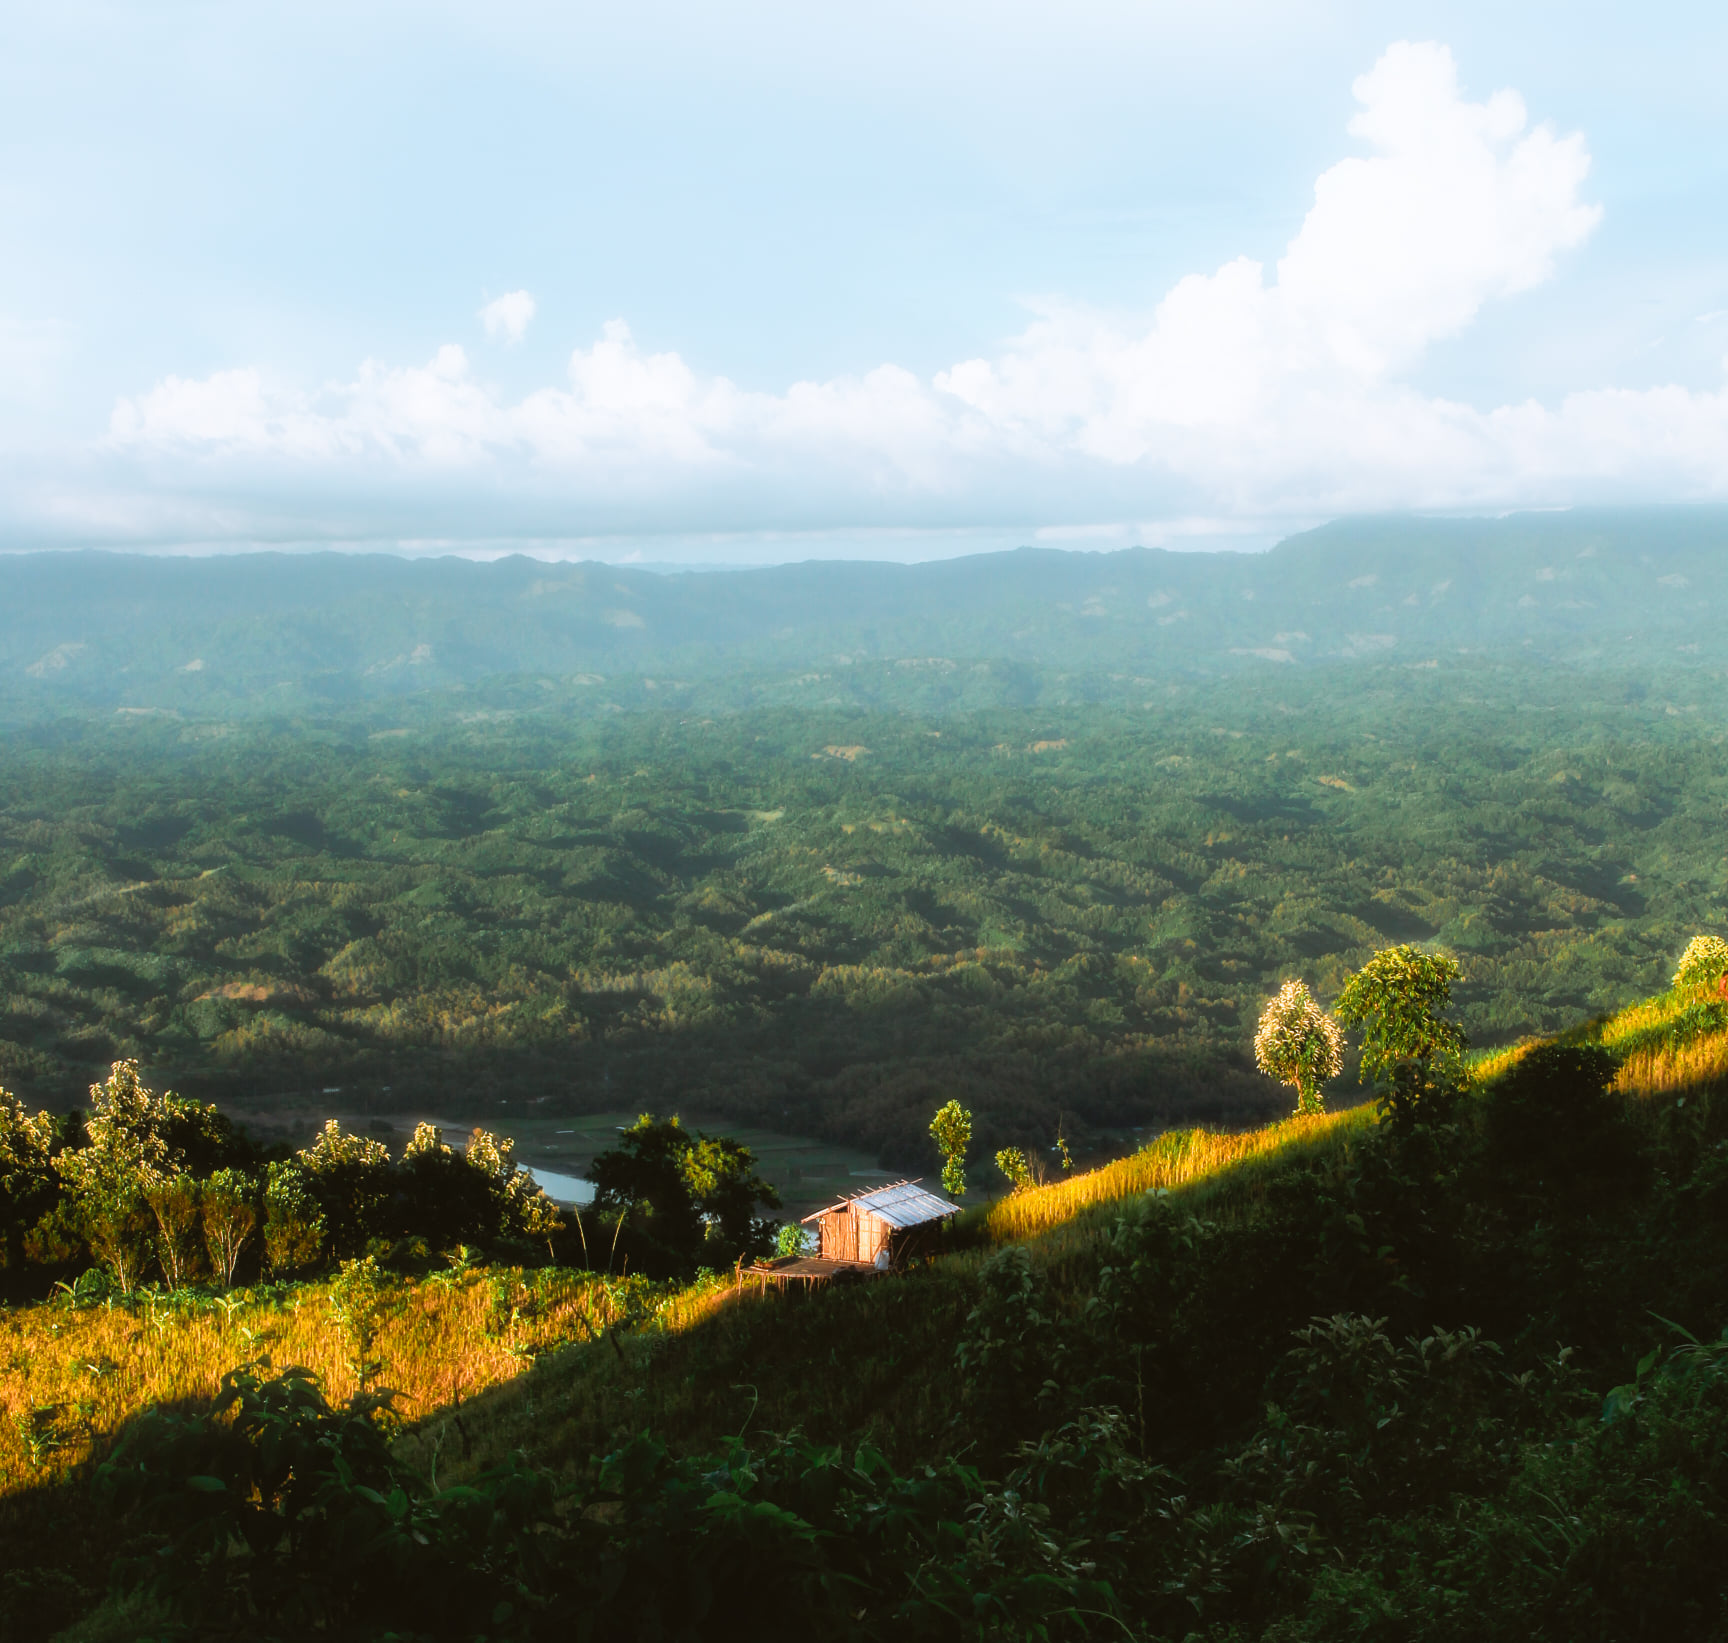
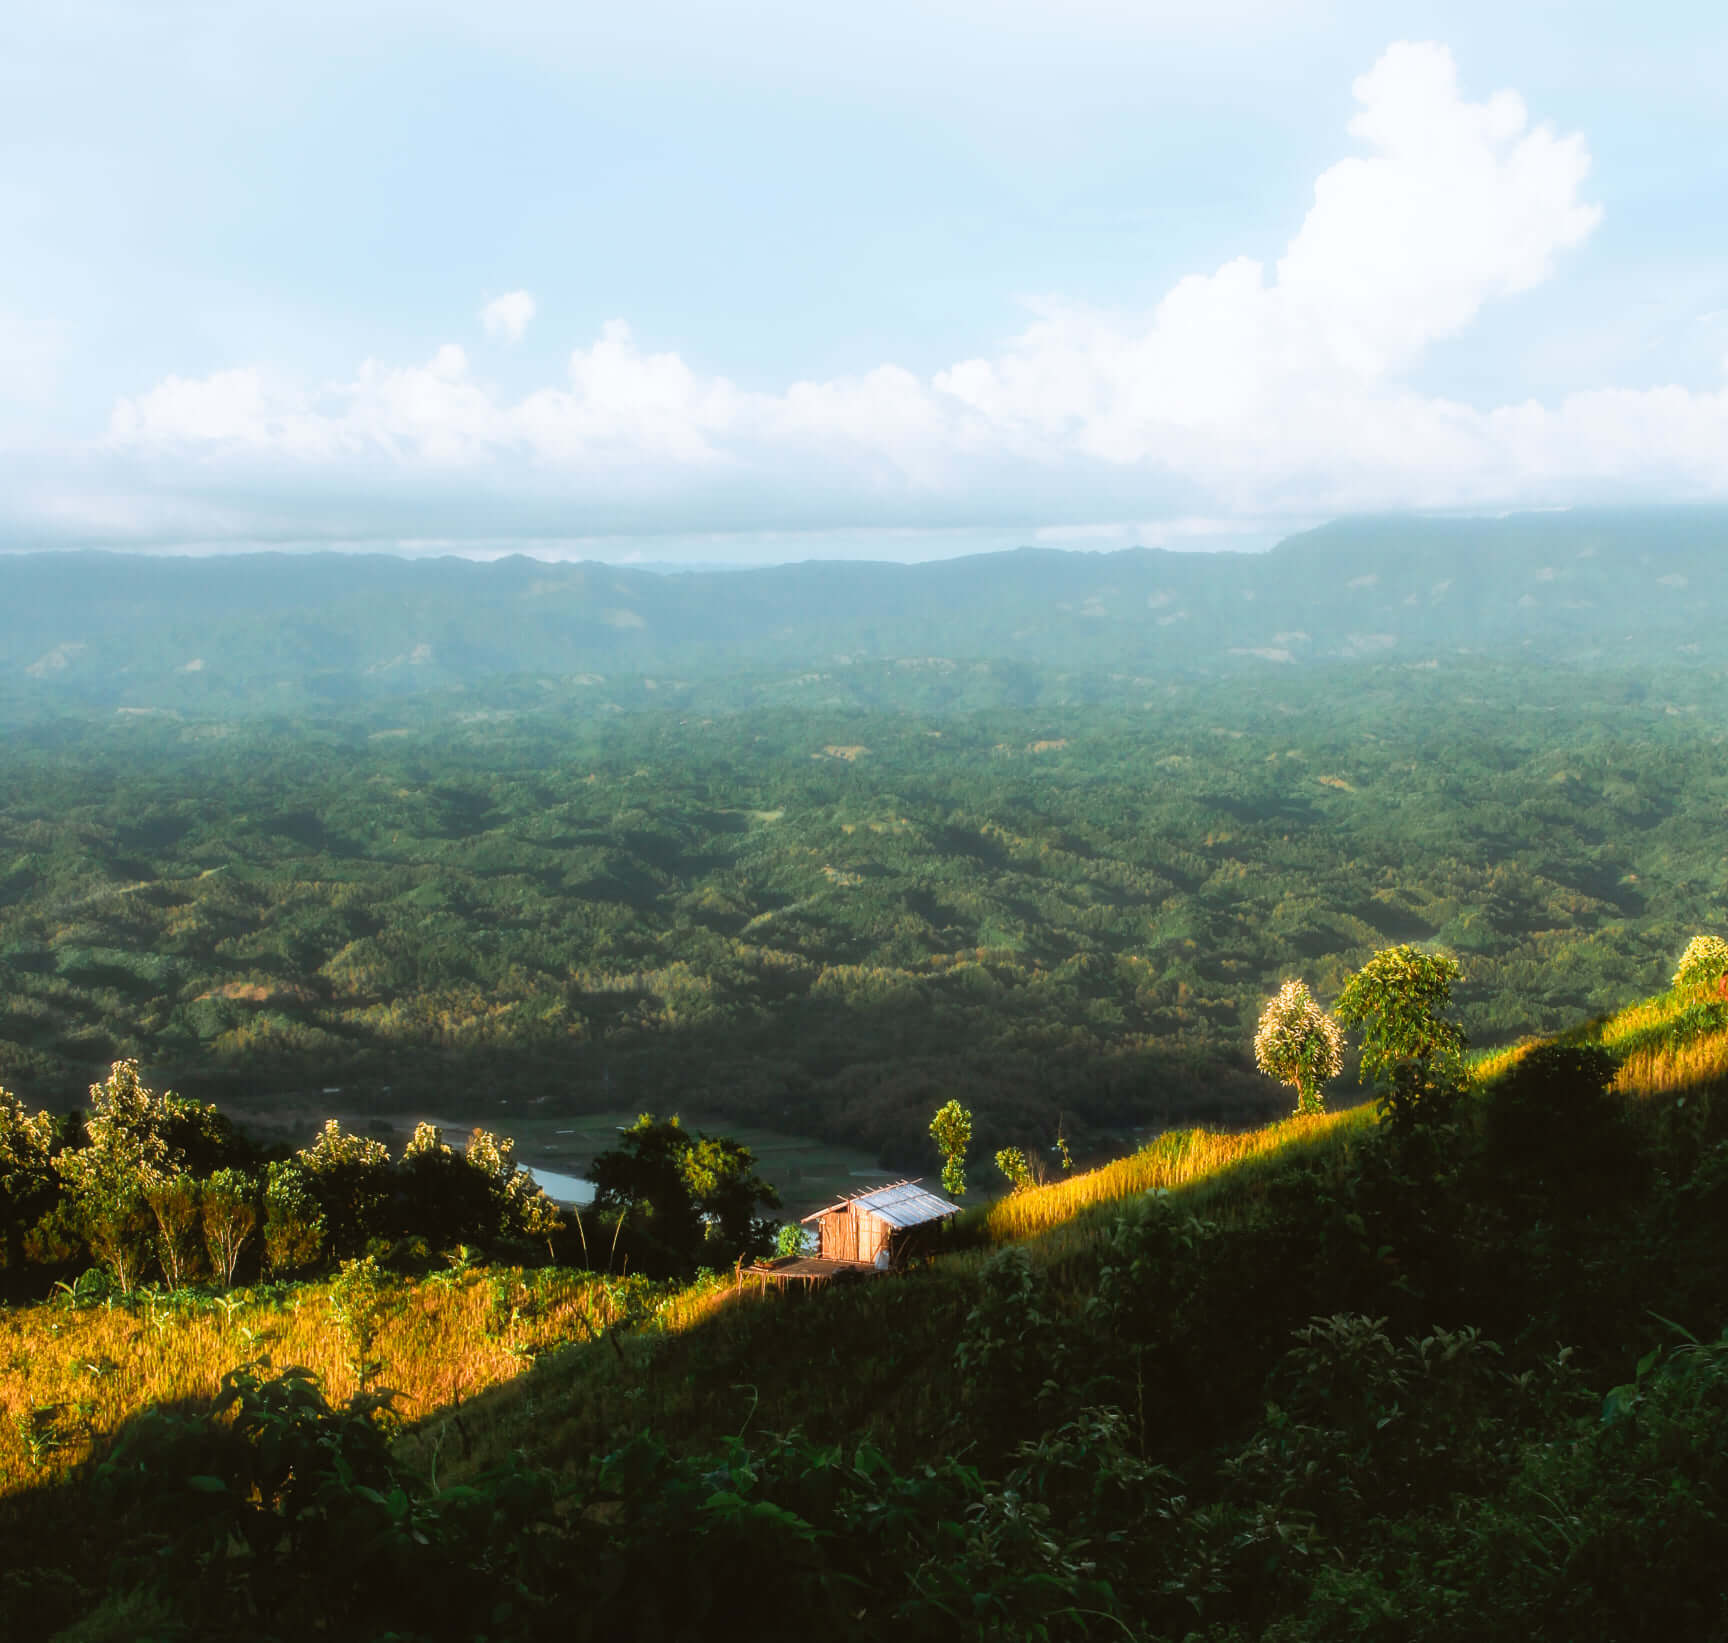
compressed assets
reduced the size of assets to improve the loading speed

Changed region(s): [[0.7188, 0.5898, 0.7812, 0.6519], [0.0312, 0.6519, 0.0938, 0.7139], [0.9688, 0.5587, 1.0, 0.5898]]

diff --git a/src/components/sections/about.jsx b/src/components/sections/about.jsx
@@ -210,7 +210,7 @@ export default function Abouts() {
 
       <div className="w-full max-w-sm bg-neutral-50 border border-gray-200 rounded-lg shadow-md dark:bg-gray-800 dark:border-gray-700 pt-10">
             <div className="flex flex-col items-center pb-10">
-                <img className="w-24 h-24 mb-3 rounded-full shadow-lg object-cover" src="/assets/fardin.jpeg" alt="Bonnie image" />
+                <img className="w-24 h-24 mb-3 rounded-full shadow-lg object-cover" src="/assets/fardin.jpg" alt="Bonnie image" />
                 <h5 className="mb-1 text-xl font-medium text-gray-900 dark:text-white">Fardin Mahmud</h5>
                 <span className="text-sm text-gray-500 dark:text-gray-400">Associate Creative Director</span>
                 <div className="flex mt-4 space-x-3 md:mt-6">
@@ -221,7 +221,7 @@ export default function Abouts() {
 
       <div className="w-full max-w-sm bg-neutral-50 border border-gray-200 rounded-lg shadow-md dark:bg-gray-800 dark:border-gray-700 pt-10">
             <div className="flex flex-col items-center pb-10">
-                <img className="w-24 h-24 mb-3 rounded-full shadow-lg" src="/assets/raju.jpeg" alt="Bonnie image" />
+                <img className="w-24 h-24 mb-3 rounded-full shadow-lg" src="/assets/raju.jpg" alt="Bonnie image" />
                 <h5 className="mb-1 text-xl font-medium text-gray-900 dark:text-white">Sayeed Anwar Raju</h5>
                 <span className="text-sm text-gray-500 dark:text-gray-400">Managing Director</span>
                 <div className="flex mt-4 space-x-3 md:mt-6">
@@ -232,7 +232,7 @@ export default function Abouts() {
 
       <div className="w-full max-w-sm bg-neutral-50 border border-gray-200 rounded-lg shadow-md dark:bg-gray-800 dark:border-gray-700 pt-10">
             <div className="flex flex-col items-center pb-10">
-                <img className="w-24 h-24 mb-3 rounded-full shadow-lg object-cover" src="/assets/muna.jpeg" alt="Bonnie image" />
+                <img className="w-24 h-24 mb-3 rounded-full shadow-lg object-cover" src="/assets/muna.jpg" alt="Bonnie image" />
                 <h5 className="mb-1 text-xl font-medium text-gray-900 dark:text-white">Morium Sultana Muna</h5>
                 <span className="text-sm text-gray-500 dark:text-gray-400">HR</span>
                 <div className="flex mt-4 space-x-3 md:mt-6">
@@ -243,7 +243,7 @@ export default function Abouts() {
 
       <div className="w-full max-w-sm bg-neutral-50 border border-gray-200 rounded-lg shadow-md dark:bg-gray-800 dark:border-gray-700 pt-10">
             <div className="flex flex-col items-center pb-10">
-                <img className="w-24 h-24 mb-3 rounded-full shadow-lg object-cover" src="/assets/sifat.jpeg" alt="Bonnie image" />
+                <img className="w-24 h-24 mb-3 rounded-full shadow-lg object-cover" src="/assets/sifat.jpg" alt="Bonnie image" />
                 <h5 className="mb-1 text-xl font-medium text-gray-900 dark:text-white">Sadaf Hasan</h5>
                 <span className="text-sm text-gray-500 dark:text-gray-400">Director of photography</span>
                 <div className="flex mt-4 space-x-3 md:mt-6">
